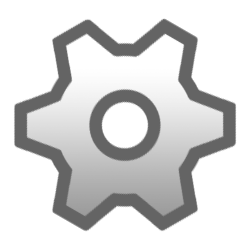
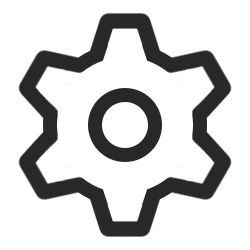
Updated menu visual style

diff --git a/src/modules/predictionsScene.py b/src/modules/predictionsScene.py
@@ -52,7 +52,8 @@ def generateUI(window, settings, buttons=True):
     if buttons:
         ui["buttons"] = [
             Button(window, (5 * settings.get("menuScale"), 5 * settings.get("menuScale")),
-            (90 * settings.get("menuScale"), 90 * settings.get("menuScale")), drawIcon=True, drawBackground=False,
+            (90 * settings.get("menuScale"), 90 * settings.get("menuScale")),
+            drawIcon=True, drawBackground=False,
             iconBase="media/screenerIconBase.png",
             iconHighlight="media/screenerIconHighlight.png",
             iconClick="media/screenerIconClick.png",
@@ -61,7 +62,8 @@ def generateUI(window, settings, buttons=True):
             "Stock screener (Not Implemented Yet)", "U", 20 * settings.get("menuScale"))),
 
             Button(window, (5 * settings.get("menuScale"), 105 * settings.get("menuScale")),
-            (90 * settings.get("menuScale"), 90 * settings.get("menuScale")), drawIcon=True, drawBackground=False,
+            (90 * settings.get("menuScale"), 90 * settings.get("menuScale")),
+            drawIcon=True, drawBackground=False,
             iconBase="media/rulesIconBase.png",
             iconHighlight="media/rulesIconHighlight.png",
             iconClick="media/rulesIconClick.png",
@@ -70,13 +72,35 @@ def generateUI(window, settings, buttons=True):
             "Rules editor (Not Implemented Yet)", "U", 20 * settings.get("menuScale"))),
 
             Button(window, (5 * settings.get("menuScale"), 205 * settings.get("menuScale")),
-            (90 * settings.get("menuScale"), 90 * settings.get("menuScale")), drawIcon=True, drawBackground=False,
+            (90 * settings.get("menuScale"), 90 * settings.get("menuScale")), "active",
+            drawIcon=True, drawBackground=False,
             iconBase="media/predictionsIconBase.png",
             iconHighlight="media/predictionsIconHighlight.png",
             iconClick="media/predictionsIconClick.png",
             iconSize=(55 * settings.get("menuScale"), 55 * settings.get("menuScale")), drawHint = True,
             hintParameters = (window, settings, (20 * settings.get("menuScale"), 310 * settings.get("menuScale")),
-            "Predictions dashboard", "U", 20 * settings.get("menuScale")))
+            "Predictions dashboard", "U", 20 * settings.get("menuScale"))),
+
+            Button(window, (5 * settings.get("menuScale"), 1080 - 195 * settings.get("menuScale")),
+            (90 * settings.get("menuScale"), 90 * settings.get("menuScale")),
+            drawIcon=True, drawBackground=False,
+            iconBase="media/settingsIconBase.png",
+            iconHighlight="media/settingsIconHighlight.png",
+            iconClick="media/settingsIconClick.png",
+            iconSize=(55 * settings.get("menuScale"), 55 * settings.get("menuScale")), drawHint = True,
+            hintParameters = (window, settings, (20 * settings.get("menuScale"), 1080 - 260 * settings.get("menuScale")),
+            "Change settings", "D", 20 * settings.get("menuScale"))),
+
+
+            Button(window, (5 * settings.get("menuScale"), 1080 - 95 * settings.get("menuScale")),
+            (90 * settings.get("menuScale"), 90 * settings.get("menuScale")),
+            drawIcon=True, drawBackground=False,
+            iconBase="media/exitIconBase.png",
+            iconHighlight="media/exitIconHighlight.png",
+            iconClick="media/exitIconClick.png",
+            iconSize=(55 * settings.get("menuScale"), 55 * settings.get("menuScale")), drawHint = True,
+            hintParameters = (window, settings, (20 * settings.get("menuScale"), 1080 - 160 * settings.get("menuScale")),
+            "Quit Stock Oracle", "D", 20 * settings.get("menuScale")))
         ]
 
     return ui

diff --git a/src/classes/Button.py b/src/classes/Button.py
@@ -6,14 +6,16 @@ import pygame as pg
 class Button:
 
     # Constructor
-    def __init__(self, window, position, size, **kwargs):
+    def __init__(self, window, position, size, lock="NA", **kwargs):
 
         self.window = window
         self.position = position
         self.size = size
+        self.lock = lock
 
         self.status = "base"
         self.send = False
+        self.hovering = False
 
         # Default visual arguments
         self.visuals = {
@@ -74,6 +76,7 @@ class Button:
             # Defines button visuals
             if pressed[0]: self.status = "click"
             else: self.status = "highlight"
+            self.hovering = True
 
             # Executes button signal if button released
             if released == 1: self.send = True
@@ -81,12 +84,21 @@ class Button:
 
             if self.visuals["drawHint"]: self.hint.show = True
 
-        elif self.status in ["click", "highlight"]:
+        elif self.hovering:
 
             pg.mouse.set_system_cursor(pg.SYSTEM_CURSOR_ARROW)
+            self.hovering = False
             
             self.status = "base"
             if self.visuals["drawHint"]: self.hint.show = False
+
+        if self.lock == "active":
+            self.status = "highlight"
+            self.send = False
+
+        elif self.lock == "inactive":
+            self.status = "base"
+            self.send = False
 
         self.draw()
 
